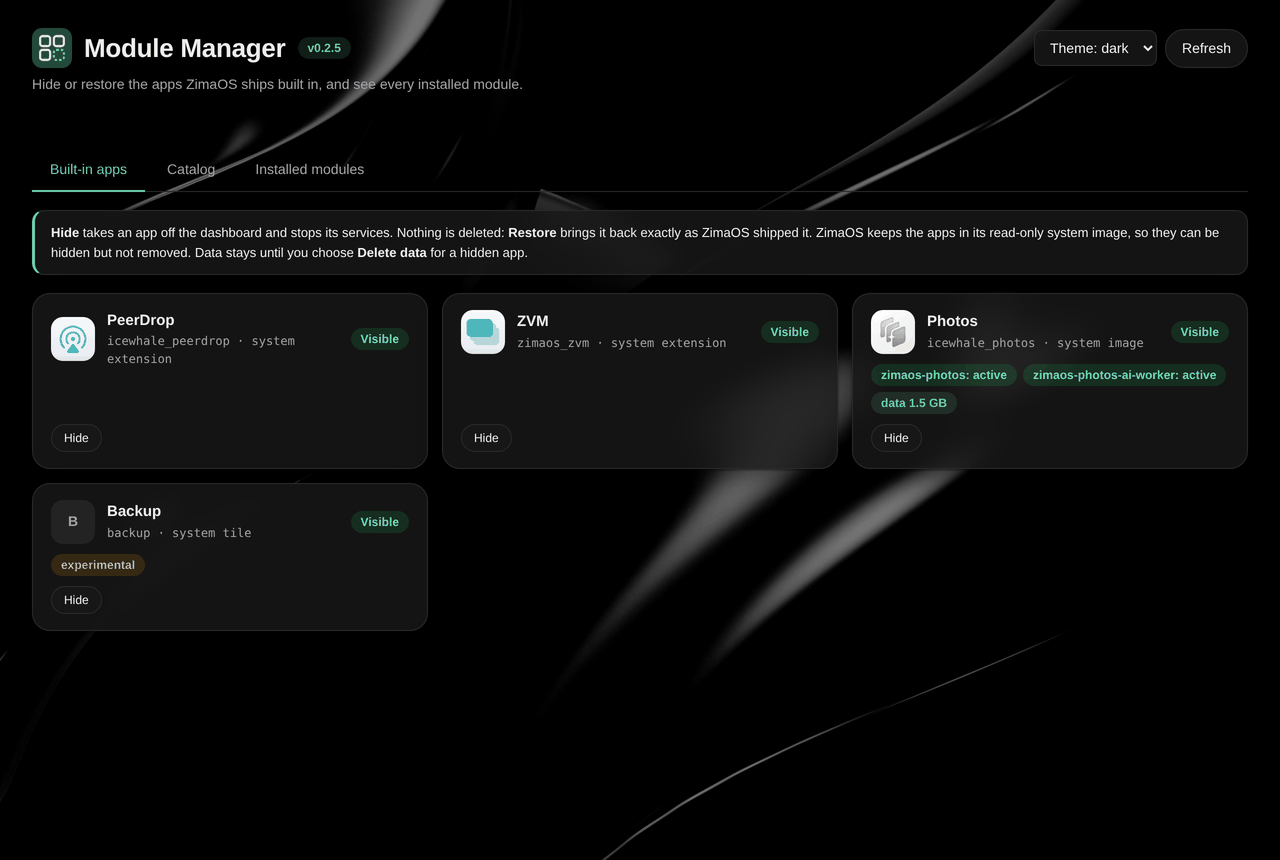
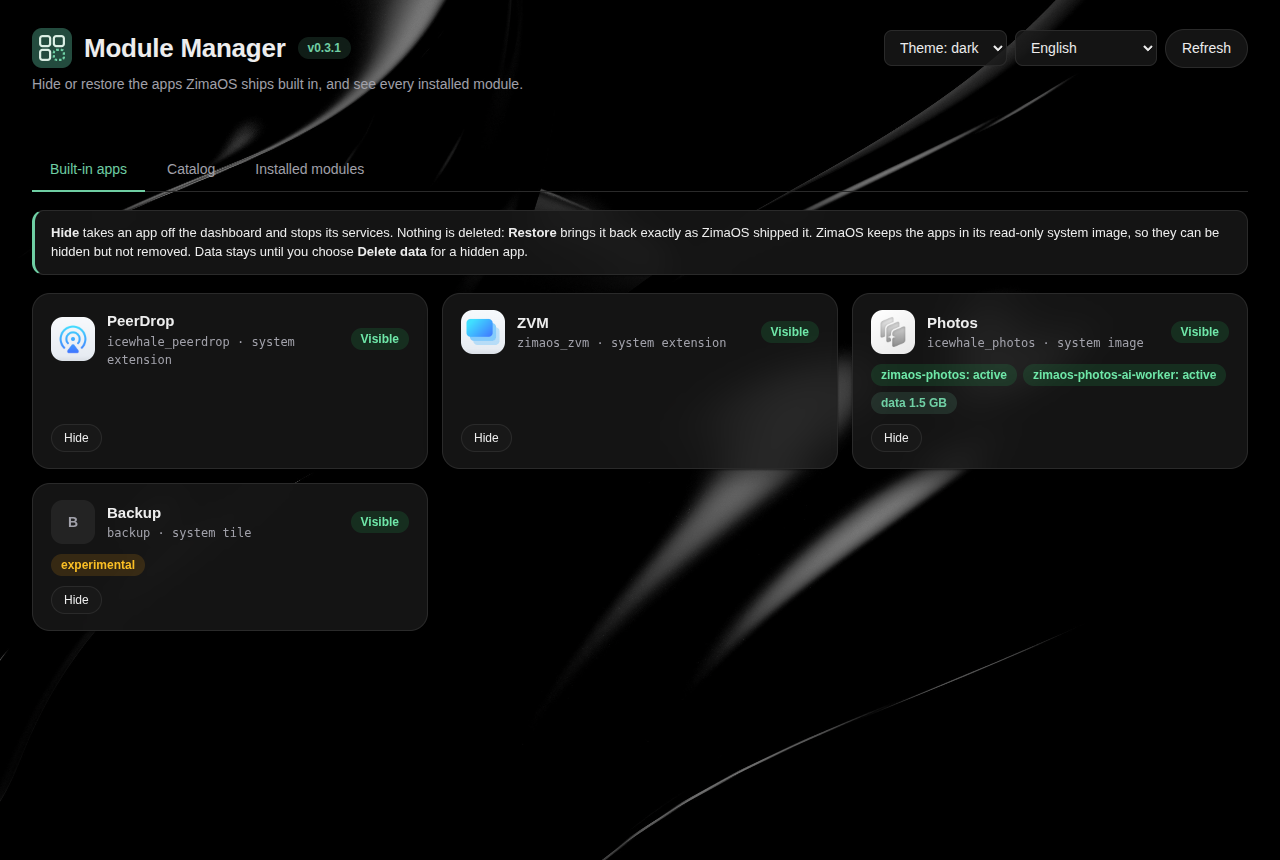
README: screenshots of 0.3.1 (language menu, Pangolin in the catalog)

diff --git a/README.md b/README.md
@@ -10,7 +10,7 @@ Hide or restore the apps ZimaOS ships built in — Photos, PeerDrop, ZVM and the
 |---|---|
 | ![Catalog: the Lintux modules with installed version, updates and install](docs/screenshots/catalog.png) | ![Installed modules: every module ZimaOS currently has merged](docs/screenshots/installed-modules.png) |
 
-Screenshots: Module Manager 0.2.5 on a ZimaBoard 2 with ZimaOS 1.8.0 (dark theme), 2026-10-23. Changes per release: [CHANGELOG.md](CHANGELOG.md).
+Screenshots: Module Manager 0.3.1 with the data of a ZimaBoard 2 running ZimaOS 1.8.0 (dark theme), 2026-10-26. Changes per release: [CHANGELOG.md](CHANGELOG.md).
 
 ## How each kind of app is hidden
 
